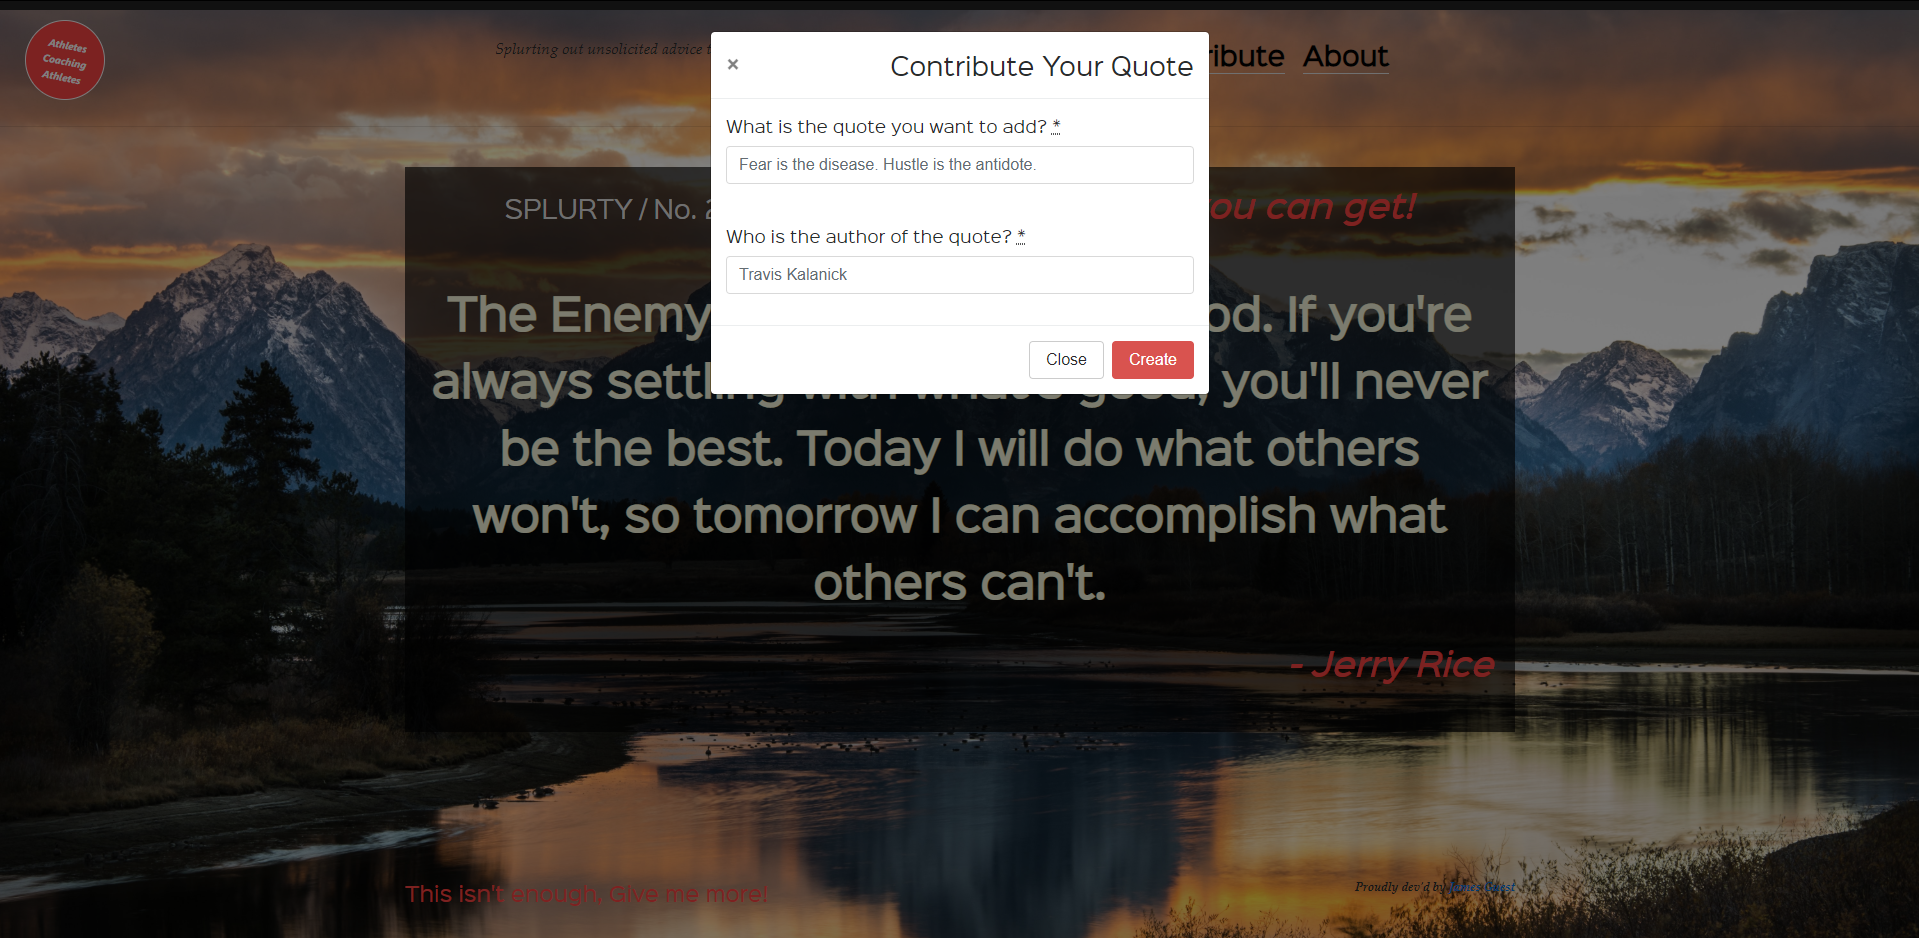
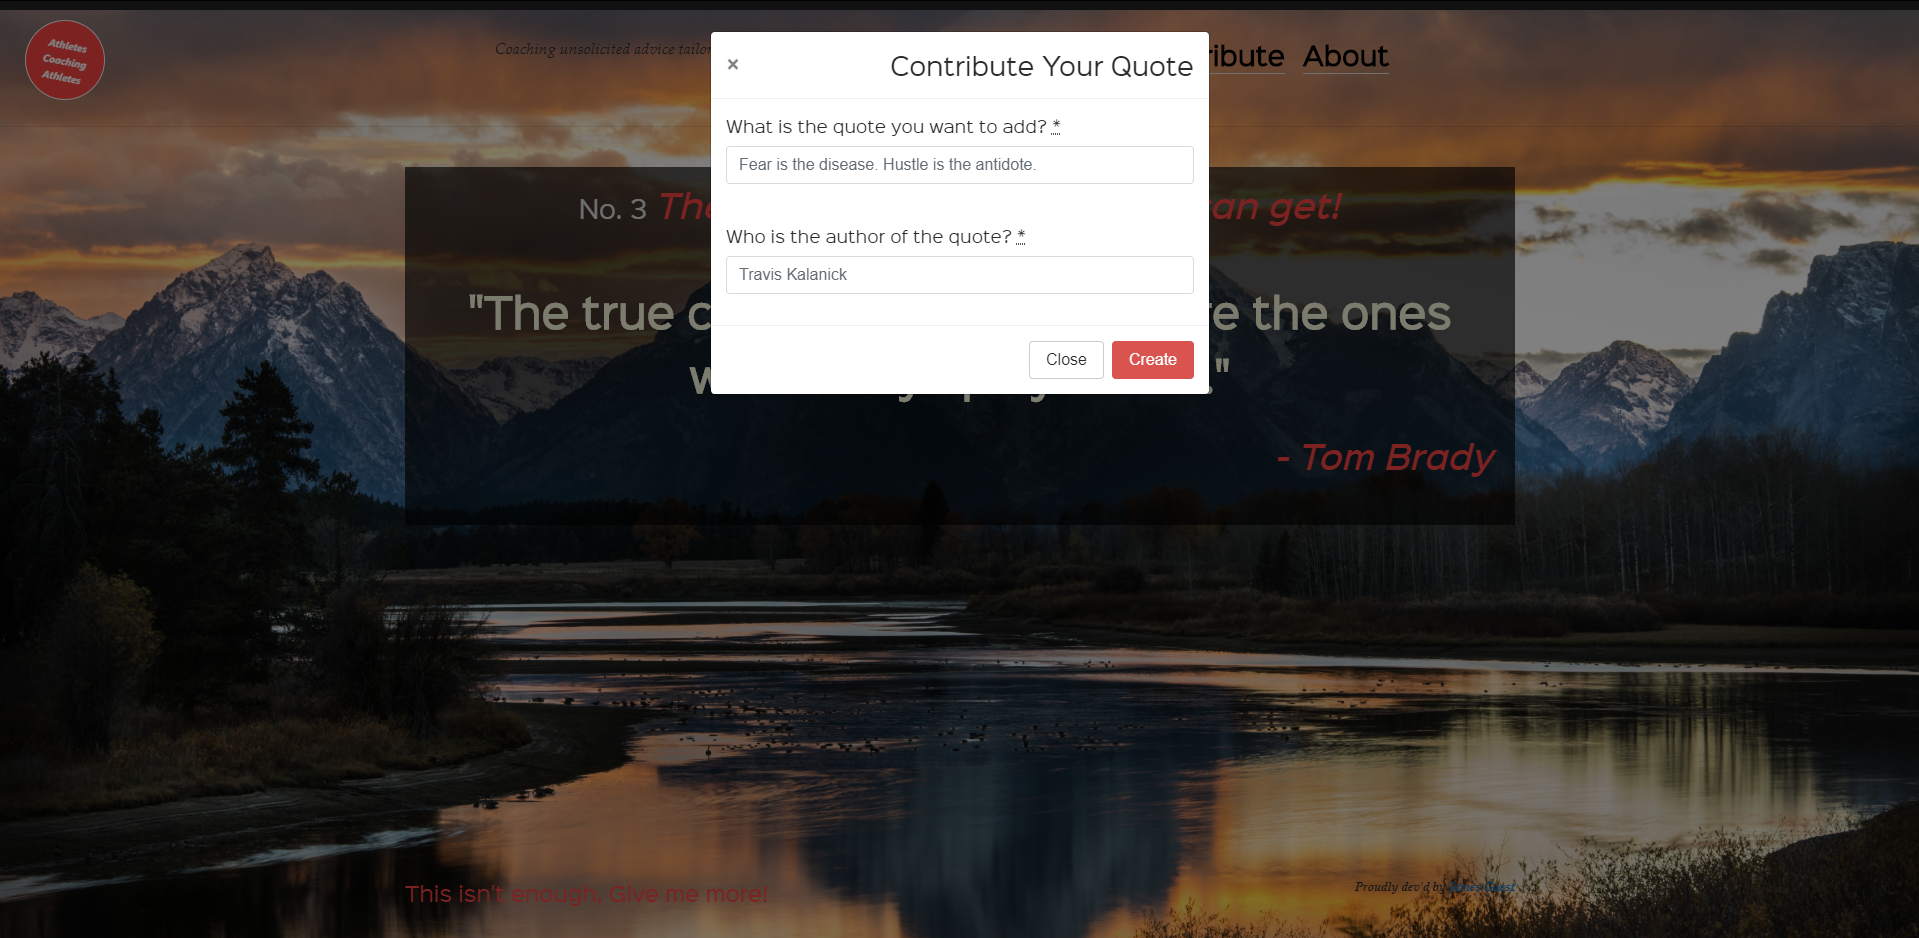
new Readme screenshots

diff --git a/README.md b/README.md
@@ -1,4 +1,4 @@
-# Splurty
+# QuoteCoach
 
 A database-powered quote generator with a mobile-first design, using the Ruby on Rails framework, HTML, and CSS. Uses Git and GitHub for version control, and launched on Heroku.
 
@@ -6,16 +6,15 @@ A database-powered quote generator with a mobile-first design, using the Ruby on
 
 <img src="images/contribute.PNG">
 
-
 <img src="images/index2.PNG" width="434"> <img src="images/contribute2.PNG" width="434">
 
 ## Deployment
 
-* [http://splurty-james-guest.herokuapp.com/](http://splurty-james-guest.herokuapp.com/)
+- [https://quotecoach.herokuapp.com/](https://quotecoach.herokuapp.com/)
 
 ## Tech
 
-* [Ruby](https://www.ruby-lang.org/en/documentation/) v: 2.5.3
-* [Rails](https://rubyonrails.org/) - v: 5.2.1
-* [postgreSQL](https://www.postgresql.org/) - Database
-* [Heroku](https://devcenter.heroku.com/) - Deployment
+- [Ruby](https://www.ruby-lang.org/en/documentation/) v: 2.5.3
+- [Rails](https://rubyonrails.org/) - v: 5.2.1
+- [postgreSQL](https://www.postgresql.org/) - Database
+- [Heroku](https://devcenter.heroku.com/) - Deployment
